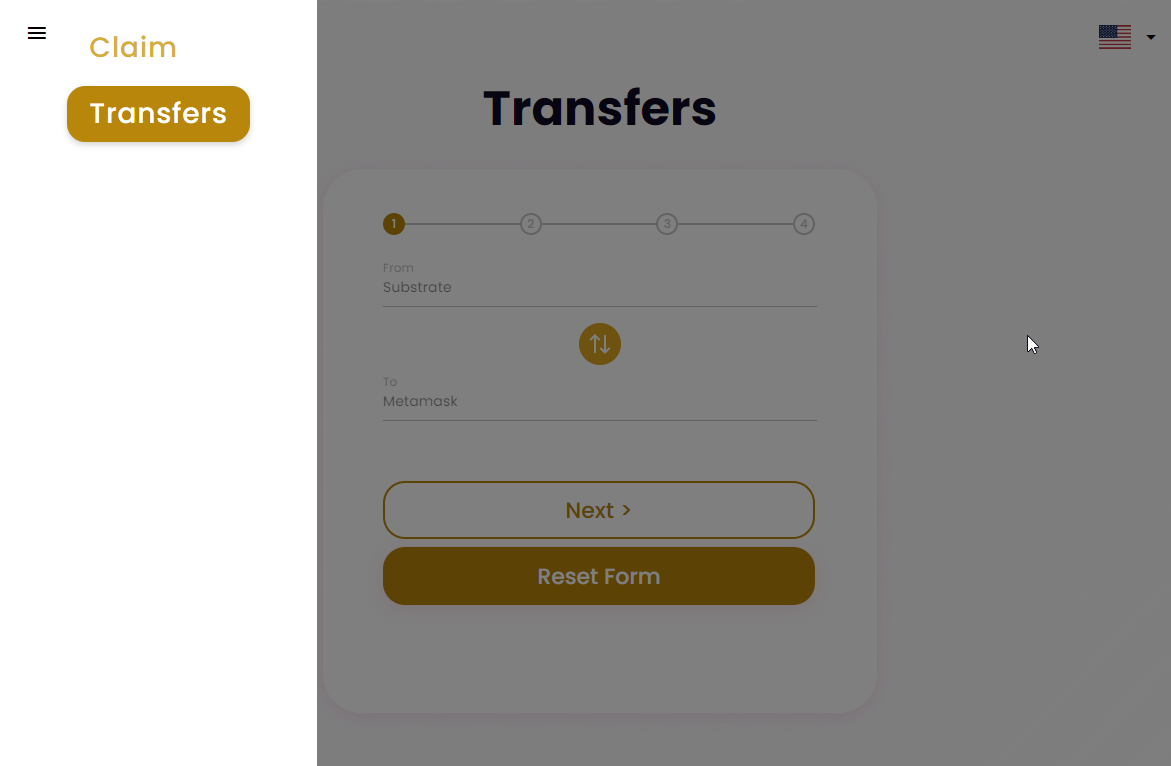
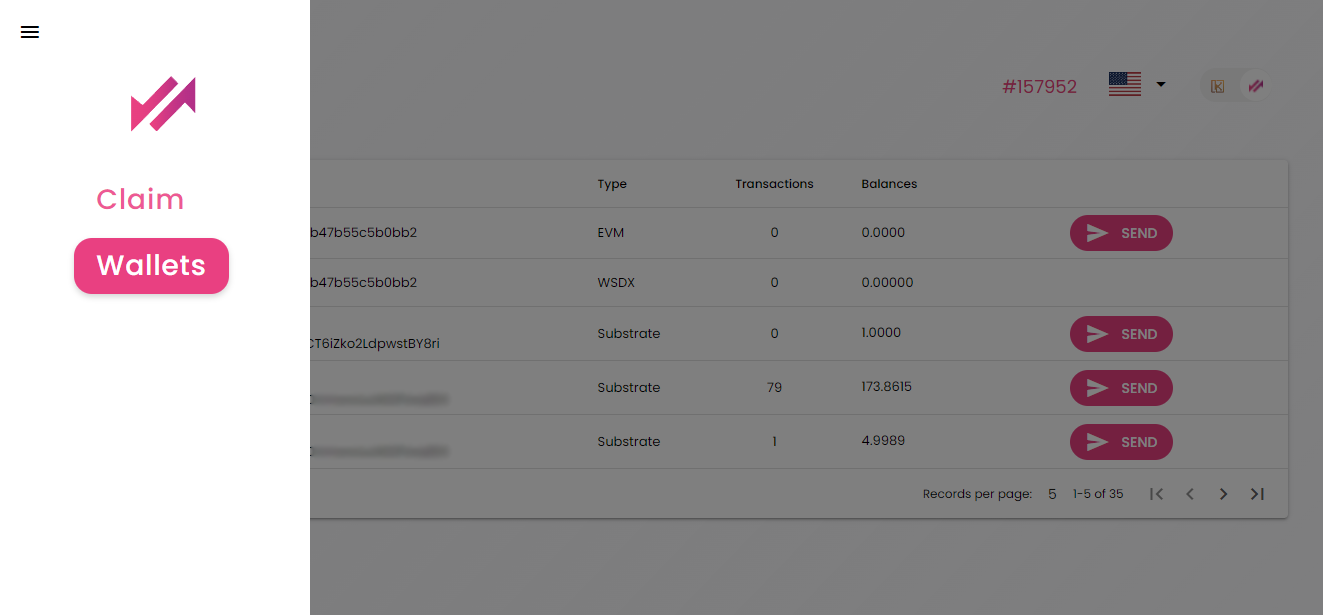
updated getting started section and fixed some links

diff --git a/docs/get-started/internal-transfer.md b/docs/get-started/internal-transfer.md
@@ -2,7 +2,7 @@
 ---
 Cheers Friends, 
 
-This guide will teach you how to transfer your funds from our "substrate" side to our Ethereum-Virtual-Machine (EVM).
+This guide will teach you how to send your funds from our "substrate" side to our Ethereum-Virtual-Machine (EVM).
 Remember, the EVM side of our chain allows you to interact with many eth-based smart contracts and projects that eventually will move to SwapDEX.
 Moreover, our cross-chain bridges will be attached to our EVM module, so for you to utilize cross-chain trades, you must use the EVM.
 
@@ -12,92 +12,82 @@ Second, I will elaborate a bit more on the concept so that the interested lads c
 
 ## <b> PART 1 - WALKTHROUGH </b>
 !!! Hint
-    You can access the TRANSFER function here: <a href="https://app.swapdex.network/#/transfers" target="_blank"> Visit Dashboard </a> <br>
+    You can access the WALLETS function here: <a href="https://app.swapdex.network/#/swapdex/wallets" target="_blank"> Visit Dashboard </a> <br>
     You can watch me walk you through the process in this video: <a href="https://youtu.be/oZM_EoZgCAo" target="_blank"> Visit YouTube </a> 
 
 The transfer is done in four (4) steps:
 
-- Setup 
-- Origin and Destination Address
-- Amount    
+- Choose an account to send the SDX from 
+- Choose an account that will receive the SDX
+- Specify amount    
 - Confirmation
 
-### <b> STEP 01 - Setup </b>
+### <b> STEP 01 - Choose an account to send the SDX from </b>
 
 !!! Hint
-    Make sure you have selected the "Transfers" function of our DApp (see picture below)
+    Make sure you have selected the "Wallets" function of our DApp (see picture below)
 
 ![img](assets/Internal-transfer-step-01.png#center)
 
 !!! hint 
-    You can change the transfer direction with the center button.
-    Confirm the direction by clicking on next
+    In the wallet list find the wallet to send from and click the button `send` on the right side. This account needs to hold the funds you wish to transfer.
 
 ![img](assets/Internal-transfer-step-011.png#center)
 
+### <b> STEP 02 - Choose an account that will receive the SDX </b>
+
 !!! Hint 
-    Click on "Connect SwapDEX Account" to connect your substrate wallet to the DApp. 
-    This substrate address needs to hold the funds you wish to transfer.
-    If you use the polkadot.js browser extension to manage your addresses, the DApp will offer you a dropdown menu.
-
-![img](assets/Internal-transfer-step-012.png#center)
-
-!!! hint
-    Click next once you have selected your address.
-    If you have trouble seeing the dropdown menu, please reload the page or close your browser and restart the process.
-
-### <b> STEP 02 - Origin and Destination Address </b>
-
-In this step, you can choose to either connect to your MetaMask wallet and automatically fetch the correct address, or you can paste any eth-based address.
+    Click on `Send To Account` field and select an account you want to transfer the funds to from the dropdown menu. 
 
 ![img](assets/Internal-transfer-step-02.png#center)
 
-!!! hint
-    Once you have selected a target address, you can confirm by clicking next.
-    You need to confirm the selected accounts and click on "Ok".
+### <b> STEP 03 - Specify amount </b>
 
-![img](assets/Internal-transfer-step-021.png#center)
-
-### <b> STEP 03 - Amount </b>
-
-In this step, you need to select the amount you want to transfer and confirm by clicking on the "Transfer Amount" button.
-
-!!! Warning
-    It is generally advised to test a transaction with a small amount, especially if you are not familiar with the transfer function so far.
-    The correct transfer of funds is your sole responsibility! No refunds are possible.
+Set the amount of SDX you want to send in the `Amount` field.
 
 ![img](assets/Internal-transfer-step-03.png#center)
+
+!!! hint
+    Do not use `MAX` button to send all your funds. A small amount of SDX is needed to pay the gas fees
+
+### <b> STEP 04 - Confirmation </b>
+
+Click `Make Transfer` button and double check the `Sending From Account` and `Amount` values are correct.
+
+!!! Warning
+    It is generally advised to test a transaction with a small amount, especially if you are not familiar with the wallets so far.
+    The correct transfer of funds is your sole responsibility! No refunds are possible.
+
+![img](assets/Internal-transfer-step-04.png#center)
 
 !!! hint
     Open the substrate or EVM explorer to be prepared to check that the transfer went through successfully. <br>
     <a href="https://polkadot.js.org/apps/?rpc=wss%3A%2F%2Fws.swapdex.network#/explorer" target="_blank"> Substrate Explorer </a> <br>
     <a href="https://evm.swapdex.network/blocks" target="_blank"> EVM Explorer </a>
 
-### <b> STEP 04 - Confirmation </b>
+Confirm the transfer by hitting the `Sign and Submit` button.
 
-Confirm the transfer by hitting the "Sign and Send" button.
-
-![img](assets/Internal-transfer-step-04.png#center)
+![img](assets/Internal-transfer-step-041.png#center)
 
 !!! Hint
     Sign with your substrate account.
 
-![img](assets/Internal-transfer-step-041.png#center)
+![img](assets/Internal-transfer-step-042.png#center)
 
 !!! hint 
     If everything went fine, you are going to see a success message at the button of the page
 
-![img](assets/Internal-transfer-step-042.png#center)
+![img](assets/Internal-transfer-step-043.png#center)
 
 !!! hint 
     Now head over to the substrate explorer to check if the DApp successfully wrote the transfer into a block
 
-![img](assets/Internal-transfer-step-043.png#center)
+![img](assets/Internal-transfer-step-044.png#center)
 
 
 !!! Success
     Congrats, you successfully swapped SDX from the substrate to the EVM side.
-    Feel free to reverse the swap and use the transfer function to your needs. 
+    Feel free to reverse the swap and use the wallets function to your needs. 
 
 
 ## <b> PART 2 - WHAT HAPPENS IN THE BACKGROUND </b>

diff --git a/docs/get-started/transfer-balances.md b/docs/get-started/transfer-balances.md
@@ -38,7 +38,7 @@ At an extrinsic level, there are two main ways to transfer funds from one accoun
 By default, <a href="https://polkadot.js.org/apps/?rpc=wss%3A%2F%2Fws.swapdex.network#/explorer" target="_blank">Substrate Explorer App</a> will use `transfer_keep_alive`, ensuring that the account you send from cannot drop below the existential deposit (0.001666 SDX). However, it may be that you do not want to keep this account alive (for example, because you are moving all of your funds to a different address). In this case, click on the "keep-alive" toggle at the bottom of the pop-up window.
 The label should switch from "Transfer with account keep-alive checks"(`transfer_keep_alive` will be used) to "Normal transfer without keep-alive checks" (`transfer` extrinsic will be used). As a common use case for using normal transfers is to entirely clear out the account, a second toggle will appear if you have the keep-alive check turned off that will send all the tokens in the account, minus a transaction fee, to the destination address.
 
-Attempting to send less than the existential deposit to an account with 0 SDX will always fail, no matter if the keep-alive check is on or not. For instance, attempting to transfer 0.001 SDX to an account you just generated (and thus has no SDX) will fail, since 0.001 SDX is less than the existential deposit of 0.001666 KSI and the account cannot be initialized with such a low balance.
+Attempting to send less than the existential deposit to an account with 0 SDX will always fail, no matter if the keep-alive check is on or not. For instance, attempting to transfer 0.001 SDX to an account you just generated (and thus has no SDX) will fail, since 0.001 SDX is less than the existential deposit of 0.001666 SDX and the account cannot be initialized with such a low balance.
 
 !!! warning
     Even if the transfer fails due to a keep-alive check, the transaction fee will be deducted from the sending account if you attempt to transfer.

diff --git a/docs/validator-guides/validator.md b/docs/validator-guides/validator.md
@@ -1,7 +1,7 @@
 # <b>HOW TO SETUP A VALIDATOR</b>
 ---
 
-The following guide will teach you how to set up a SwapDEX test validator. The process of becoming a validator requires two steps. The first step is to set up a network node. The second step is to assign your node to your account and apply for validator candidacy.
+The following guide will teach you how to set up a SwapDEX validator. The process of becoming a validator requires two steps. The first step is to set up a network node. The second step is to assign your node to your account and apply for validator candidacy.
 
 Network validators are the foundation of a decentralized proof-of-stake network because they are responsible for concluding on a consensus by creating new and validating already produced blocks. That said, network validators are the prime target for adversaries that aim to sabotage the network. The SwapDEX has many layers to protect the network from attacks. The first layer is the security of each validator itself. Another layer is the slashing mechanism that detects validator nodes that display abnormal or dangerous behavior and punishes them with slashes. A slash will, in all cases, lead to the loss of funds. 
 
@@ -298,7 +298,7 @@ You can also determine if you would like to receive nominations with the "allows
 
 - Hit bond & validate
 
-- Visit the **<a href="https://polkadot.js.org/apps/?rpc=wss%3A%2F%2Fws.kusari.network#/staking/waiting" target="_blank">Waiting Tab</a>** to see your validator waiting until the era finishes
+- Visit the **<a href="https://polkadot.js.org/apps/?rpc=wss%3A%2F%2Fws.swapdex.network#/staking/waiting" target="_blank">Waiting Tab</a>** to see your validator waiting until the era finishes
 
 !!! success
     Alright mate! You are all set :D

diff --git a/docs/get-started/endpoints.md b/docs/get-started/endpoints.md
@@ -16,9 +16,9 @@ const{ ApiPromise, WsProvider } = require('@polkadot/api')
     const api = await ApiPromise.create({ provider })
     // ...
 ```
-or in SwapDEX Substrate Explorer by clicking on the top-left corner of the screen and opening up the TEST NETWORK group and selecting SwapDEX and **via Starkley Tech**
+or in SwapDEX Substrate Explorer by clicking on the top-left corner of the screen and opening up the LIVE NETWORKS group and selecting SwapDEX and **via Swapdex**
 
-![img](assets/phoenix-endpoint.png#center)
+![img](assets/swapdex-endpoint.png#center)
 
 <br></br>
 

diff --git a/docs/dev-guides/Tutorials/evm-tutorial/Tutorial/using-truffle.md b/docs/dev-guides/Tutorials/evm-tutorial/Tutorial/using-truffle.md
@@ -438,7 +438,7 @@ Summary
 
 ### **Check Deployment on Network Explorer**
 
-To verfiy the successfull deployment head over to the [EVM Testnet Explorer](https://evm-explorer-testnet.swapdex.network/) and search for your {==Contract Address==}.
+To verfiy the successfull deployment head over to the <a href="https://evm.swapdex.network/" target="_blank">EVM Testnet Explorer</a> and search for your {==Contract Address==}.
 
 ![img](assets/contract-deployed-explorer.png)
 

diff --git a/docs/index.md b/docs/index.md
@@ -210,7 +210,7 @@ Whether you're a blockchain <a href="https://docs.swapdex.network/dev-guides/" t
 
 
 * [https://substrate.dev/docs/en/knowledgebase/smart-contracts/](https://substrate.dev/docs/en/knowledgebase/smart-contracts/)
-* [https://substrate.dev/docs/](https://substrate.dev/docs)
+* [https://substrate.dev/](https://substrate.dev/)
 
 <br></br>
 

diff --git a/docs/dev-guides/Tutorials/evm-tutorial/index.md b/docs/dev-guides/Tutorials/evm-tutorial/index.md
@@ -1,4 +1,4 @@
-# <b>Kusari and EVM</b>
+# <b>SwapDEX and EVM</b>
 ---
 ![eth-logo](assets/eth-logo.png#center)
 
